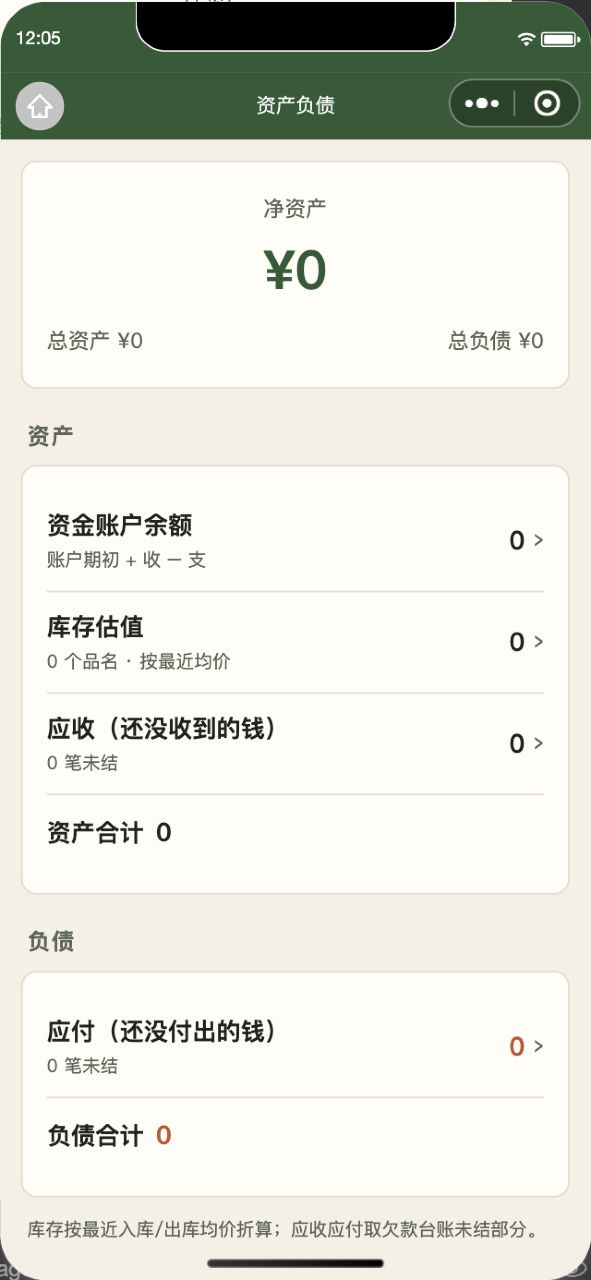
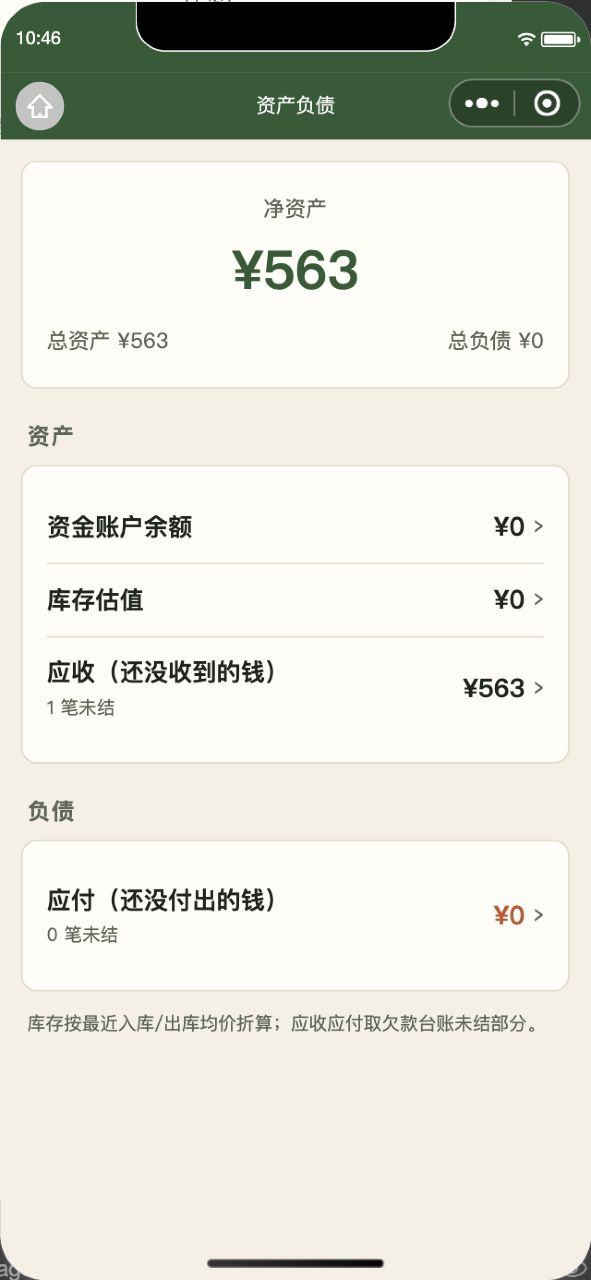
feat(记账): 账本入口拆分（周期账状态卡 + 设置归我的）/ 入口图标 / 资产负债去重复（体验版 0.7.9）
- 账本：4 个小 chip 拆开——周期账留账本并换成状态卡（时钟图标 + N 个 + 下次 X月X日 · 名字，用 nextOn 真算）；类型管理/记账键盘/回收站挪到「我的 → 记账设置」
- 图标：新画 chart/box/wallet/target/scale/trash/sync/info + users 绿色版；6 个入口从「单个汉字」改成「浅绿圆角底 + 绿线图标 + 标题 + 实时结论」；我的两个设置组也上图标
- 资产负债：删「资产合计/负债合计」（与顶部总资产/总负债重复）+ 删「账户期初 + 收 − 支」「N 个品名 · 按最近均价」两处说明框
- 设计稿 F6/F20/F27 + 3 个新 symbol + 第13节第12条；51/51 单测 + 24 页静态检查通过

diff --git a/docs/design/记账P0P1-UI设计稿.html b/docs/design/记账P0P1-UI设计稿.html
@@ -223,6 +223,9 @@ h3.sect{font-size:12.5px;font-weight:700;color:var(--sub);letter-spacing:1px;mar
   <symbol id="i-chart" viewBox="0 0 22 22"><path d="M4 3.5V18h14"/><path d="M7 14.5l3.3-3.8 3 2.3L18 7"/></symbol>
   <symbol id="i-box" viewBox="0 0 22 22"><path d="M11 3l8 4.2v7.6L11 19 3 14.8V7.2z"/><path d="M3 7.2L11 11l8-3.8M11 11v8"/></symbol>
   <symbol id="i-receipt" viewBox="0 0 22 22"><path d="M6 3h10v16l-2.5-1.6L11 19l-2.5-1.6L6 19z"/><path d="M8.6 8h4.8M8.6 12h4.8"/></symbol>
+  <symbol id="i-target" viewBox="0 0 22 22"><circle cx="11" cy="11" r="7.4"/><circle cx="11" cy="11" r="3.3"/><path d="M11 11h.01"/></symbol>
+  <symbol id="i-wallet" viewBox="0 0 22 22"><path d="M3 6.8A2.3 2.3 0 0 1 5.3 4.5H17a2 2 0 0 1 2 2v9a2 2 0 0 1-2 2H5.3A2.3 2.3 0 0 1 3 15.2z"/><path d="M19 9h-3.2a2 2 0 0 0 0 4H19"/></symbol>
+  <symbol id="i-scale" viewBox="0 0 22 22"><path d="M11 4v14.5M7.5 18.5h7M4 8h14"/><path d="M2.4 12.7a2.3 2.3 0 0 0 4.6 0L4.7 8z"/><path d="M15.4 12.7a2.3 2.3 0 0 0 4.6 0L17.7 8z"/></symbol>
   <symbol id="i-trash" viewBox="0 0 22 22"><path d="M4 6.5h14M9 6.5V4h4v2.5M6.5 6.5l1 12.5h7l1-12.5"/><path d="M9.6 10v6M12.4 10v6"/></symbol>
   <symbol id="i-search" viewBox="0 0 22 22"><circle cx="10" cy="10" r="5.6"/><path d="M14.3 14.3L19 19"/></symbol>
   <symbol id="i-filter" viewBox="0 0 22 22"><path d="M3 5.5h16M6.5 11h9M9.5 16.5h3"/></symbol>
@@ -268,7 +271,7 @@ h3.sect{font-size:12.5px;font-weight:700;color:var(--sub);letter-spacing:1px;mar
 <tr><td>TabBar</td><td>今天 / 地块 / 我的</td><td><b>今天 / 账本 / 地块 / 我的</b></td></tr>
 <tr><td>账本 tab</td><td>—</td><td>顶部三入口卡（报表 · 欠款 · 库存）+ 全部地块统一流水（可切列表/月历/周历）+ 搜索与筛选</td></tr>
 <tr><td>今天</td><td>本月花费 + 在种季 + 常用账 + recently + dock</td><td>本月<b>净收</b>（收入−支出）+ <b>待收/待付</b>条 + 在种季卡（卡上新增净收益）+ 常用账 + dock</td></tr>
-<tr><td>我的</td><td>计数 + 类型管理 + 分享 + 关于</td><td>只留账号（称号 + 数据量）、数据同步状态、分享、关于——记账相关入口全部移到「账本」页</td></tr>
+<tr><td>我的</td><td>计数 + 类型管理 + 分享 + 关于</td><td>账号（称号 + 数据量）+ <b>记账设置</b>（类型管理 / 记账键盘 / 回收站）+ 数据同步 / 分享 / 关于。看账的入口全在「账本」页</td></tr>
 <tr><td>季详情 · 账本 tab</td><td>分类占比 + 流水（列表/日历）</td><td>保留，并新增「本季净收益」「待收/待付」；日历升级为 月/周 切换 + 连续补账入口（进记一笔的补账模式）</td></tr>
 </table>
 
@@ -535,12 +538,14 @@ h3.sect{font-size:12.5px;font-weight:700;color:var(--sub);letter-spacing:1px;mar
       <a><div class="ic"><svg class="ic-s" viewBox="0 0 22 22"><use href="#i-box"/></svg></div><div class="n">库存</div><div class="s">化肥剩 12 袋</div></a>
     </div>
     <div class="hub">
-      <a><div class="ic">预</div><div class="n">预算</div><div class="s">本季已用 62%</div></a>
-      <a><div class="ic">资</div><div class="n">资金账户</div><div class="s">¥18,640</div></a>
-      <a><div class="ic">产</div><div class="n">资产负债</div><div class="s">净资产 ¥42,300</div></a>
+      <a><div class="ic"><svg class="ic-s" viewBox="0 0 22 22"><use href="#i-target"/></svg></div><div class="n">预算</div><div class="s">本季已用 62%</div></a>
+      <a><div class="ic"><svg class="ic-s" viewBox="0 0 22 22"><use href="#i-wallet"/></svg></div><div class="n">资金账户</div><div class="s">¥18,640</div></a>
+      <a><div class="ic"><svg class="ic-s" viewBox="0 0 22 22"><use href="#i-scale"/></svg></div><div class="n">资产负债</div><div class="s">净资产 ¥42,300</div></a>
     </div>
-    <div class="chips">
-      <span class="chip">类型管理</span><span class="chip">周期账 2</span><span class="chip">记账键盘</span><span class="chip">回收站 2</span>
+    <div class="c2 flat" style="display:flex;align-items:center;gap:10px">
+      <div class="ic" style="margin:0"><svg class="ic-s" viewBox="0 0 22 22"><use href="#i-clock"/></svg></div>
+      <div class="grow"><div style="font-weight:700">周期账 2 个</div><div class="tiny">下次 11-01 · 土地流转</div></div>
+      <span class="muted">›</span>
     </div>
     <div class="row" style="gap:8px">
       <div class="srch grow"><svg class="ic-s" viewBox="0 0 22 22"><use href="#i-search"/></svg> 搜备注 / 对方 / 品名</div>
@@ -590,7 +595,9 @@ h3.sect{font-size:12.5px;font-weight:700;color:var(--sub);letter-spacing:1px;mar
 <li>搜索框覆盖 <b>备注 / 对方 / 品名</b>；已生效的筛选以「可删的 chip」回显，点 × 移除。</li>
 <li>列表按日分组，组头显示当天收入与支出两个数（原来只有支出合计）。</li>
 <li>每行左侧图标底色即方向：收入绿 / 支出橙红 / 赊账紫；带附件的行显示缩略块，带赊账的显示「应付/应收」标。</li>
-<li><b>记账相关的一切都收在这一页</b>：上面两排 6 个入口（报表 / 欠款 / 库存 / 预算 / 资金账户 / 资产负债，每格带一句实时结论），再一行设置（类型管理 / 周期账 / 记账键盘 / 回收站）。「我的」只留账号、同步状态、分享、关于。</li>
+<li><b>记账相关的一切都收在这一页</b>：上面两排 6 个入口（报表 / 欠款 / 库存 / 预算 / 资金账户 / 资产负债），<b>每格是「浅绿圆角底 + 绿线图标」+ 标题 + 一句实时结论</b>（不再用单个汉字当图标）。</li>
+<li><b>周期账单独一张状态卡</b>（不是小 chip）：时钟图标 + 「周期账 N 个」+「下次 X月X日 · 名字」，一眼能看到下次哪天；真到期了上面那条橙色 bar 会先说「N 个周期账到期待记 · 去记」。没有周期账时这张卡就是引导文案。</li>
+<li>类型管理 / 记账键盘 / 回收站属于<b>设置</b>，已经挪到「我的 → 记账设置」（见 F20），不再占账本页的位置。</li>
 <li>「列表 / 月历 / 周历」三者切换（日历见 F9 F10）。</li>
 </ul></div></div>
 
@@ -1253,6 +1260,12 @@ h3.sect{font-size:12.5px;font-weight:700;color:var(--sub);letter-spacing:1px;mar
         <div class="grow"><div style="font-size:16px;font-weight:800">我的农田账本</div><div class="tiny">2026 年 · 地块 2 · 种植季 3 · 账目 38 · 记事 61</div></div>
       </div>
     </div>
+    <div class="tiny" style="margin:10px 4px 0">记账设置</div>
+    <div class="c2 pad0" style="padding:0 14px">
+      <div class="flow"><div class="fic b"><svg class="ic-s" viewBox="0 0 22 22"><use href="#i-receipt"/></svg></div><div class="grow"><div style="font-weight:700">记账 / 记事类型管理</div><div class="tiny">分类、颜色、收入类型、常用账</div></div><span class="muted">›</span></div>
+      <div class="flow"><div class="fic b">⌨</div><div class="grow"><div style="font-weight:700">记账键盘</div><div class="tiny">布局、左下功能键、震动与千分位</div></div><span class="muted">›</span></div>
+      <div class="flow"><div class="fic b"><svg class="ic-s" viewBox="0 0 22 22"><use href="#i-trash"/></svg></div><div class="grow"><div style="font-weight:700">回收站</div><div class="tiny">2 项 · 30 天内可恢复</div></div><span class="muted">›</span></div>
+    </div>
     <div class="c2 pad0" style="padding:0 14px">
       <div class="flow"><div class="grow"><div style="font-weight:700">数据同步</div><div class="tiny">已同步到云端 · 3 分钟前</div></div><span class="tiny" style="color:var(--in);font-weight:700">已同步 ›</span></div>
       <div class="flow"><div class="grow"><div style="font-weight:700">推荐给种地的朋友</div><div class="tiny">分享给一起种地的邻居</div></div><span class="muted">›</span></div>
@@ -1263,7 +1276,9 @@ h3.sect{font-size:12.5px;font-weight:700;color:var(--sub);letter-spacing:1px;mar
 </div>
 <div class="cap"><h4>F20 · 我的<span class="tagline">P0-3 P0-5</span></h4>
 <ul>
-<li>只剩账号本身：称号 + 数据量一行。<b>净收益卡、报表/欠款/库存/预算/账户/资产负债/类型/周期账/键盘/回收站入口，全部挪到「账本」页</b>（见 F6）。</li>
+<li>只剩账号本身 + 设置：称号 + 数据量一行。</li>
+<li><b>「记账设置」组</b>：类型管理（含收入类型、常用账）、记账键盘、回收站——这三样从「账本」页挪过来（用户要求：账本上只留看账的入口，设置归「我的」）。每行行首一个「浅绿圆角底 + 绿线图标」。</li>
+<li>净收益卡、报表 / 欠款 / 库存 / 预算 / 资金账户 / 资产负债入口全部在「账本」页（见 F6）。</li>
 <li>「云备份」改名 <b>数据同步</b>，说人话：数据本来就在云开发数据库里，这行报的是状态——「已同步到云端 · N 分钟前」/「N 条正在上传」/「当前离线，N 条等联网」/「没连云环境，数据只在本机」；点一下立刻拉一次 + 推一次。</li>
 <li>「推荐给种地的朋友」整行跟上下两行同一套布局（普通 view 行 + 一层透明 button 只接分享点击），<code>›</code> 严格右对齐——之前直接把 <code>&lt;button&gt;</code> 当行容器，被 button 的默认居中/内边距挤到中间去了。</li>
 </ul></div></div>
@@ -1454,6 +1469,10 @@ h3.sect{font-size:12.5px;font-weight:700;color:var(--sub);letter-spacing:1px;mar
 允许把非本季地块加进来（比如同一季里又包了别人一块地），不做限制。</div>
 <div class="note done" style="margin-top:12px"><b>9. <code>design_handoff/</code> 里的旧导出代码 —— 已删除。</b><br>
 原型页与 handoff 版 <code>mine</code> 的「导出为文字」全部移除，与本稿第 13 节第 5 条口径一致。</div>
+<div class="note done" style="margin-top:12px"><b>12. 真机反馈（2026-10-07，体验版 0.7.9）—— 三件事都改了。</b><br>
+①账本页那行小 chip（类型管理 / 周期账 / 记账键盘 / 回收站）拆开：<b>周期账保留在账本，但换成一张状态卡</b>（时钟图标 + 「周期账 N 个」+「下次 X月X日 · 名字」）；类型管理 / 记账键盘 / 回收站属于设置，<b>挪到「我的 → 记账设置」</b>。<br>
+②6 个入口原来用单个汉字（报 / 欠 / 库 / 预 / 资 / 产）当图标，太丑 → <b>全部换成绿线图标</b>（新画了 chart / box / wallet / target / scale / trash / sync / info，并补了 users 的绿色版），浅绿圆角底 + 绿线图标，和记账分类同一套视觉；「我的」两个设置组也一起上了图标。<br>
+③资产负债页：<b>「资产合计 / 负债合计」两行删掉</b>（和顶部「总资产 / 总负债」重复，¥563 ↔ ¥563）；<b>资金账户余额、库存估值下面的两行小字说明框也删掉</b>（底部那条口径说明已经讲清楚），页面上少两块框。</div>
 <div class="note done" style="margin-top:12px"><b>11. 真机反馈（2026-10-07，体验版 0.7.8）—— 八件事都改了。</b><br>
 ①账户默认加「支付宝」，并且账户<b>可自己增删改</b>（记一笔账户弹层里就有「＋ 增删改账户」入口）。<br>
 ②记一笔中间那行「最近用过 + ★常用账」<b>删掉</b>——夹在金额和分类之间没意义。连带「记账键盘 → 最近用过」那组设置也撤了（没有对应界面了）。常用账模板还在：类型管理 → 常用账，或把键盘左下角那颗键设成「常用账」。<br>
@@ -1545,13 +1564,11 @@ h3.sect{font-size:12.5px;font-weight:700;color:var(--sub);letter-spacing:1px;mar
     </div>
     <div class="tiny" style="margin:6px 4px 0">资产</div>
     <div class="c2"><div class="kv"><span>资金账户余额</span><span class="num">¥18,640</span></div>
-      <div class="kv"><span>库存估值（6 个品名）</span><span class="num">¥5,400</span></div>
-      <div class="kv"><span>应收（还没收到的钱）</span><span class="num">¥3,000</span></div>
-      <div class="kv"><span><b>资产合计</b></span><span class="num"><b>¥27,040</b></span></div>
+      <div class="kv"><span>库存估值</span><span class="num">¥5,400</span></div>
+      <div class="kv"><span>应收（还没收到的钱）<br><span class="tiny">1 笔未结</span></span><span class="num">¥3,000</span></div>
     </div>
     <div class="tiny" style="margin:6px 4px 0">负债</div>
-    <div class="c2"><div class="kv"><span>应付（还没付出的钱）</span><span class="num" style="color:var(--out)">¥800</span></div>
-      <div class="kv"><span><b>负债合计</b></span><span class="num" style="color:var(--out)"><b>¥800</b></span></div>
+    <div class="c2"><div class="kv"><span>应付（还没付出的钱）<br><span class="tiny">0 笔未结</span></span><span class="num" style="color:var(--out)">¥800</span></div>
     </div>
     <div class="tiny" style="margin:8px 4px 0">库存按最近入库/出库均价折算；应收应付取欠款台账未结部分。点任意一行去对应页面。</div>
   </div>
@@ -1561,6 +1578,8 @@ h3.sect{font-size:12.5px;font-weight:700;color:var(--sub);letter-spacing:1px;mar
 <li>三块数据全是现成的：资金账户（本轮新增）、库存估值（<code>stock.lastPrice × onHand</code>）、应收应付（欠款台账未结）。</li>
 <li><b>净资产 = 账户余额 + 库存估值 + 应收 − 应付</b>，回答「我这摊子到底值多少」。</li>
 <li>每行可点，直接下钻到资金账户 / 库存 / 欠款台账，不在这一页重复操作。</li>
+<li><b>没有「资产合计 / 负债合计」两行</b>：它们和顶部「总资产 / 总负债」是同一批数字，重复（用户指出 ¥563 ↔ ¥563）。每段的合计直接看顶部那张卡。</li>
+<li>资金账户余额和库存估值下面的两行小字说明（「账户期初 + 收 − 支」「N 个品名 · 按最近均价」）也删了——底部那条口径说明已经讲清楚，页面上少两块框。</li>
 </ul></div></div>
 
 </body>

diff --git a/miniprogram/pages/ledger/ledger.js b/miniprogram/pages/ledger/ledger.js
@@ -119,8 +119,13 @@ Page({
       funds: { n: '资金账户', s: '¥' + stats.accountRows(null).totalBalanceText },
       balance: (bs => ({ n: '资产负债', s: '净资产 ¥' + bs.netText, warn: bs.net < 0 }))(stats.balanceSheet())
     };
-    const trash = store.trash.count();
-    const recCount = store.recurring.items().length;
+    // 周期账：单独一张状态卡——有几个、下次哪天，一眼能看见（不再是个小 chip）
+    const recs = store.recurring.items().filter(r => r.enabled !== false);
+    const recOn = recs.map(r => ({ r, d: store.recurring.nextOn(r, today) }))
+      .filter(x => x.d).sort((a, b) => (a.d < b.d ? -1 : 1));
+    const rec = recs.length
+      ? { title: '周期账 ' + recs.length + ' 个', sub: recOn.length ? '下次 ' + U.cnDate(recOn[0].d) + ' · ' + recOn[0].r.name : '还没到日子' }
+      : { title: '周期账', sub: '土地流转、贷款这类固定支出，到日子提醒你去记' };
     // 生效筛选 chip
     const chips = [];
     const f = this.data.f;
@@ -142,7 +147,7 @@ Page({
       days, total, hub, due, chips, subList: subs, plots, scopeName, acctList: store.accounts.items(),
       cal, calYm, wk, wkStart,
       offline: gd.online === false, unsynced: store.outbox().length,
-      itemCount: list.length, trash, recCount
+      itemCount: list.length, rec
     });
   },
 

diff --git a/miniprogram/pages/balance/balance.js b/miniprogram/pages/balance/balance.js
@@ -12,9 +12,11 @@ Page({
   render() {
     const bs = stats.balanceSheet();
     bs.netNeg = bs.net < 0;
+    // 两处合计（资产合计 / 负债合计）和净资产、总资产、总负债是同一批数字，重复，已删。
+    // 资金账户余额 / 库存估值的两行小字说明也删了——底部那条口径说明已经讲清楚。
     bs.assetRows = [
-      { name: '资金账户余额', hint: '账户期初 + 收 − 支', value: bs.cash, text: bs.cashText, go: 'funds' },
-      { name: '库存估值', hint: bs.stockCount + ' 个品名 · 按最近均价', value: bs.stockValue, text: bs.stockValueText, go: 'stock' },
+      { name: '资金账户余额', hint: '', value: bs.cash, text: bs.cashText, go: 'funds' },
+      { name: '库存估值', hint: '', value: bs.stockValue, text: bs.stockValueText, go: 'stock' },
       { name: '应收（还没收到的钱）', hint: bs.receivableCount + ' 笔未结', value: bs.receivable, text: bs.receivableText, go: 'debt' }
     ];
     bs.liabRows = [

diff --git a/miniprogram/pages/mine/mine.js b/miniprogram/pages/mine/mine.js
@@ -14,7 +14,7 @@ function ago(ts) {
 }
 
 Page({
-  data: { counts: {}, year: '', sync: { state: '', ok: false } },
+  data: { counts: {}, year: '', trash: 0, sync: { state: '', ok: false } },
 
   onShow() {
     const d = store.db();
@@ -36,6 +36,7 @@ Page({
         costs: d.costs.filter(c => !c.deletedAt).length,
         logs: d.logs.filter(l => !l.deletedAt).length
       },
+      trash: store.trash.count(),
       sync: { state, ok }
     });
   },
@@ -49,6 +50,11 @@ Page({
       .then(() => { U.toast('同步完成', 'success'); this.onShow(); })
       .catch(() => U.toast('同步失败，联网后会自动重试'));
   },
+
+  // 记账设置：从「账本」挪过来（用户要求：我的只留设置，看账的入口归账本）
+  goTags() { wx.navigateTo({ url: '/pages/tags/tags' }); },
+  goKeypanel() { wx.navigateTo({ url: '/pages/keypanel/keypanel' }); },
+  goTrash() { wx.navigateTo({ url: '/pages/trash/trash' }); },
 
   about() {
     wx.showModal({

diff --git a/docs/deploy.md b/docs/deploy.md
@@ -85,6 +85,13 @@
 >   - 自检：`node --test miniprogram/tests/*.test.js` → 51/51（品种用例重写：清单可加可删、`all = 用过的(去重) + 清单`；新增整地清单加删断言）；`node scripts/check-miniprogram.js` → 24 页 + keypad 全通过
 >   - 模拟器逐页复核截图存 `docs/design/verify/`（`cost-edit`、`cost-edit-acct`、`ledger`、`ledger-daysheet`、`mine`、`season-new`、`season-new-till`、`keypanel`）；品种/整地的加删走的是真实 `store` 写入，**验证用的「测试品种A / 测试整地A」已删干净**
 >   - 设计稿同步：F1（去掉最近用过/常用账行 + 账户可自建 + 金额区高度写死）、F6（账本变记账总入口，加第二排入口与设置行）、F20（我的简化 + 数据同步 + 分享行对齐）、F26（账户可增删改 + 老库只补缺）、覆盖清单 P1-8/P1-14、现行→目标表「我的」行、口径表（新增「资金账户」「品种 / 整地」两行）、第 13 节新增第 11 条；仍是 28 屏、`div` 开合平衡
+> - **2026-10-07：体验版 `0.7.9` 已上传**（三条真机反馈：账本入口拆分 / 入口图标 / 资产负债去重复，二维码同 `docs/trial-qr-0.7.0.png`，无需换码）
+>   - **账本页那行小 chip 拆开**：原来「类型管理 / 周期账 / 记账键盘 / 回收站」挤成一行。现在 **周期账留在账本、但换成一张状态卡**（时钟图标 + 「周期账 N 个」+「下次 X月X日 · 名字」，用 `store.recurring.nextOn` 真实算下次日期；没有周期账时显示引导文案；真到期了上面那条橙色 bar 仍然先说「N 个周期账到期待记 · 去记」）；**类型管理 / 记账键盘 / 回收站挪到「我的 → 记账设置」**（它们是设置，不是看账入口）
+>   - **6 个入口的图标**：原来用单个汉字（报 / 欠 / 库 / 预 / 资 / 产）当图标，太丑。新画了 6 个绿线图标（`chart` / `box` / `wallet` / `target` / `scale` / `trash`）+ `sync`（数据同步）+ `info`（关于），并补了 `users` 的绿色版（分享），风格与既有图标一致（24×24 描边、`#2E5B34`、1.8 线宽）；入口渲染成「浅绿圆角底 + 绿线图标 + 标题 + 实时结论」。「我的」两个设置组也一起上了图标
+>   - **资产负债页去掉重复**：删掉「资产合计 / 负债合计」两行 —— 它们和顶部「总资产 / 总负债」是同一批数字（用户指出 ¥563 ↔ ¥563 重复）。同时删掉「资金账户余额」下的「账户期初 + 收 − 支」和「库存估值」下的「N 个品名 · 按最近均价」两行小字说明框（底部那条口径说明已经讲清楚）。应收/应付的「N 笔未结」保留
+>   - 自检：`node --test miniprogram/tests/*.test.js` → 51/51；`node scripts/check-miniprogram.js` → 24 页 + keypad 全通过
+>   - 模拟器复核：账本页（6 个图标入口 + 周期账卡「周期账 1 个 / 下次 10月1日 · 土地流转」+ 设置行已消失）、我的页（记账设置组 3 行 + 账号组 3 行，`›` 全部右对齐）、资产负债页（两处合计与两处说明框都没了）截图存 `docs/design/verify/ledger.jpg`、`mine.jpg`、`balance.jpg`；**验证用的那 1 个测试周期账已从本地库和云端一起清掉**（云端 `tags.recurring` 回到 `[]`）
+>   - 设计稿同步：F6（第二排入口换图标 + 设置行改周期账状态卡 + caption）、F20（新增「记账设置」组 + caption）、F27（删两处合计 + 两处说明框 + caption）、新增 `i-target` / `i-wallet` / `i-scale` 三个 symbol、现行→目标表「我的」行、第 13 节新增第 12 条；仍是 28 屏、`div` 开合平衡
 > - 小程序名已变更为 **田祖记**（原名 Londdon123kkk，改名审核已生效）
 > - **2026-10-01：体验版 `0.5.0` 已上传**（参谋问答全面切换大模型多智能体：新增云函数 `advisorAgent`（DeepSeek 原生 tool-calling loop，9 个只读工具按 openid 隔离 + draft_* 起草工具，写操作必须农户确认才落库）；`chat.js` 重写，删除全部本地对话规则与 `nlu.js`，失败只诚实报错；模型简化为 deepseek-flash / deepseek-v4-pro（BYOK，Key 只存云端）。**注意：CLI/IDE 部署不会应用 config.json 的 timeout**，advisorAgent 60s / advisorChat 30s 是走 `/tcb/getqcloudtoken` 换腾讯云凭证后直调 SCF `UpdateFunctionConfiguration` 改的；实测数据问/农技问/天气问/起草/多轮/客户端 send 全链路通过）
 > - 地理位置接口申请（`wx.chooseLocation` + `wx.getFuzzyLocation`）**审核中**；未批前上传会报 `-80424 ... is not authorized`
